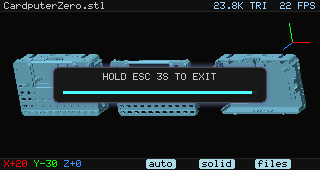
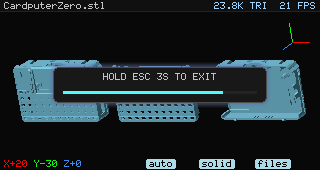
Float the bottom readout over the render
Remove the bottom bar background and border. The XYZ angles and the three
pills now sit directly on the 3D view, and the viewport extends to the
bottom edge so models can pass behind them. Axis text gets a 1px dark drop
shadow for contrast. Refresh the documentation screenshots.

diff --git a/src/ui.cpp b/src/ui.cpp
@@ -161,7 +161,9 @@ Rect viewportRect(int canvas_width, int canvas_height) {
     r.x = 0;
     r.y = kStatusHeight;
     r.w = canvas_width;
-    r.h = canvas_height - kStatusHeight - kHintHeight;
+    // The bottom bar has no background; its labels float over the render, so
+    // the viewport extends to the bottom edge.
+    r.h = canvas_height - kStatusHeight;
     return r;
 }
 
@@ -190,17 +192,23 @@ void drawUi(Canvas& canvas, const UiState& state) {
     }
     drawTextRight(canvas, w - 4, kTextTop, info, Theme::kText);
 
-    // Bottom hint bar.
+    // Bottom overlay: no bar background, labels float over the render.
     const int hint_y = h - kHintHeight;
-    canvas.fillRect(0, hint_y, w, kHintHeight, Theme::kBarBackground);
-    canvas.fillRect(0, hint_y, w, 1, Theme::kBarBorder);
+
+    // Dark 1px drop shadow keeps the colored axis text readable over light
+    // parts of the model.
+    auto draw_overlay_text = [&](int x, int y, const std::string& text,
+                                 uint16_t color) {
+        canvas.text(x + 1, y + 1, text, 0x0000);
+        canvas.text(x, y, text, color);
+    };
 
     int axis_x = kTextLeft;
     const int axis_y = hint_y + kTextTop;
     auto draw_axis = [&](char label, int value, uint16_t color) {
         char text[16];
         std::snprintf(text, sizeof(text), "%c%+d", label, value);
-        canvas.text(axis_x, axis_y, text, color);
+        draw_overlay_text(axis_x, axis_y, text, color);
         axis_x += canvas.textWidth(text) + FONT_6X8_WIDTH;
     };
     draw_axis('X', static_cast<int>(std::lround(state.camera.pitch_deg)),

diff --git a/docs/DESIGN.md b/docs/DESIGN.md
@@ -177,10 +177,13 @@ The viewer shows a red/green/blue XYZ orientation gizmo in the top-right
 corner of the 3D viewport, with no frame or arrowheads, drawn above the model
 and over the UI overlays.
 
-The bottom bar has three pills: an auto-rotate toggle at x=161 (`auto`,
-`auto x`, `auto y`, `auto z`; mint green when running) under the `6` key, a render-style button at x=217
-(`solid`, `edges`, `matcap` or `wire`) under the `7` key, and a `files` button
-at x=273 under the `8` key. `8` opens the file browser.
+The bottom edge has no bar background: the axis readout and three pills float
+directly over the render. The axis text gets a one-pixel dark drop shadow for
+contrast. The pills are an auto-rotate toggle at x=161 (`auto`, `auto x`,
+`auto y`, `auto z`; mint green when running) under the `6` key, a render-style
+button at x=217 (`solid`, `edges`, `matcap` or `wire`) under the `7` key, and a
+`files` button at x=273 under the `8` key. `8` opens the file browser. The 3D
+viewport extends to the bottom edge so models can sit behind them.
 
 Status bar: file name, triangle count, fps. The help overlay is
 a rounded, shadowed panel; keys are color-coded by group (cyan for view

diff --git a/README.md b/README.md
@@ -34,7 +34,8 @@ wireframe toggle, rotate/zoom, and an in-app file browser.
   the model and overlays
 - `8` opens the file list; `Esc` is exit-only (hold 3 seconds)
 - Pixel-art UI using a 6x8 bitmap font, no LVGL dependency
-- Light-blue "files" pill in the bottom bar, aligned with the physical 8 key
+- Light-blue "files" pill in the bottom overlay, aligned with the physical 8 key
+- Bottom info and pills float over the render with no bar background
 - Offscreen PNG rendering for development without a device
 - Built-in benchmark mode
 - Runs as the normal `pi` user under APPLaunch
